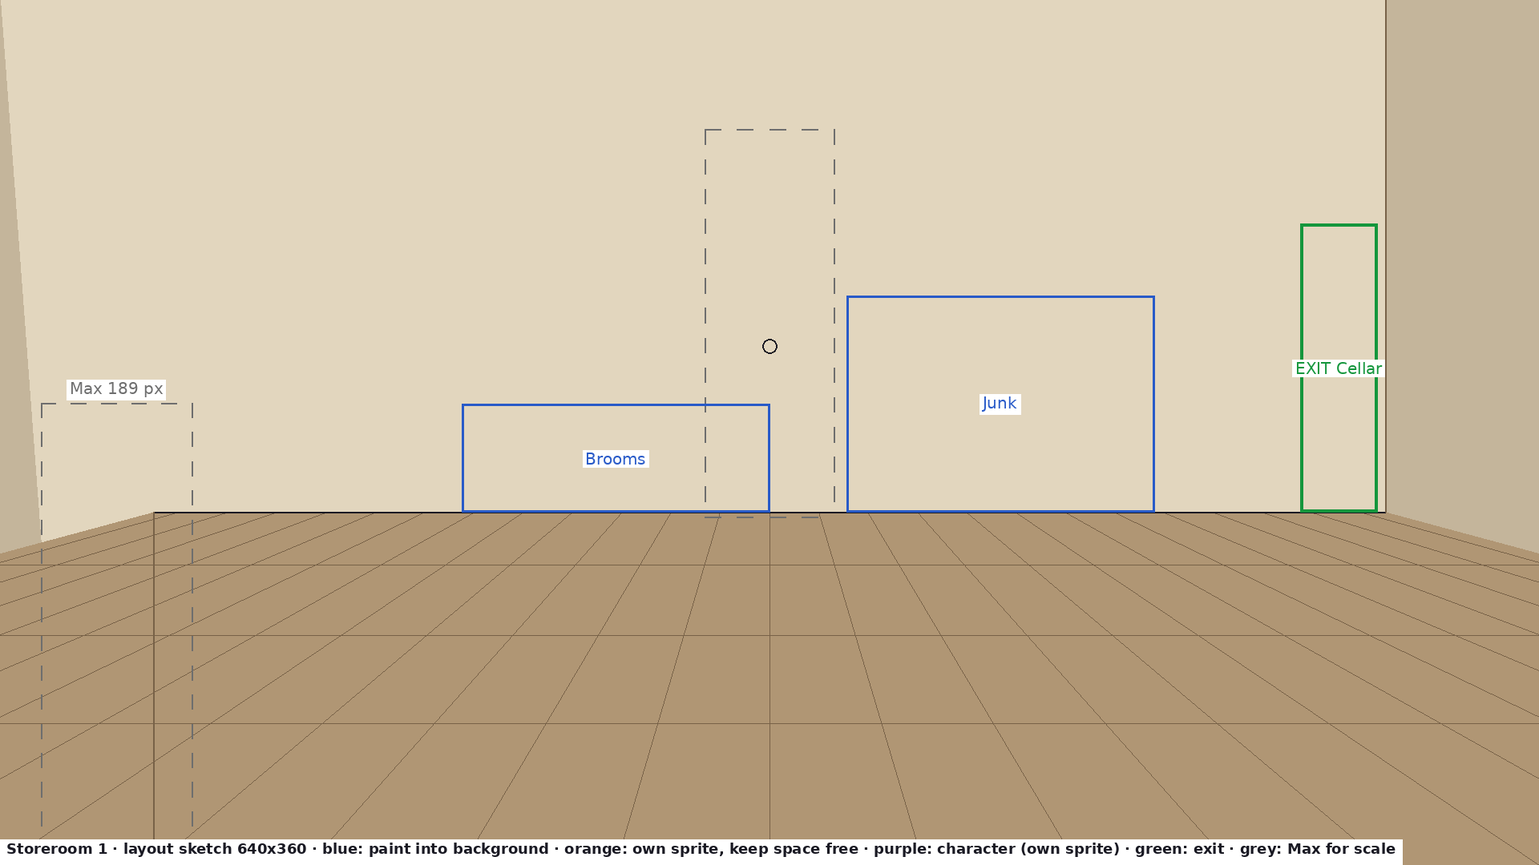
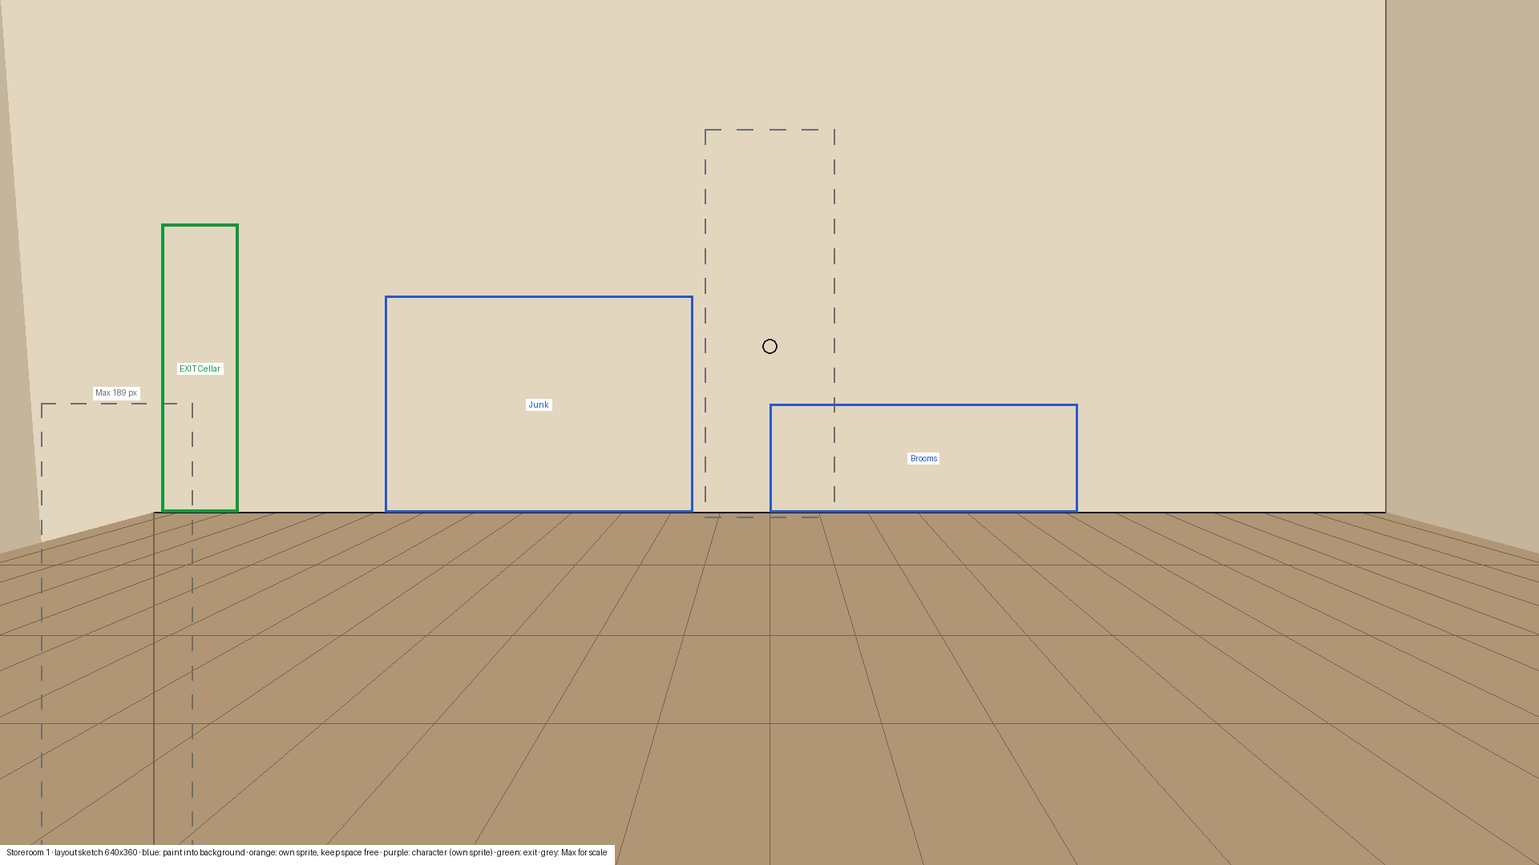
Grafik Welt 1: Prompts geprüft und ergänzt, Liste „noch offen“
Deko-Sammelbild ohne die schon gemalten Teile (Laute, Drachen-Steckbrief, Grammophon), dafür
Hammer, glühendes Hufeisen und der rückwärts fliegende Schüler. Bohnenranke als eigenes Sprite,
Animationen Rühren (Alwin) und Hämmern (Schmied). Abstellkammer 1: Tür links, passend zur
Kammertür rechts im Keller.

diff --git a/docs/grafik/welt-1.md b/docs/grafik/welt-1.md
@@ -47,6 +47,18 @@ dim torch-lit mine palette of earthy browns and mossy greens with small warm gol
 
 ## Prompts
 
+**Stand 13. November 2026, was in Welt 1 noch fehlt** (alles andere ist eingebaut; fertige Prompts in `fertige-prompts/welt-1.md`):
+
+| Art | Offen | Hinweis |
+| --- | --- | --- |
+| Szenen | Luftschloss (breit, zwei Hälften), Turmkeller, Abstellkammer 1, Smaugis Abstellkammern (zwei Fassungen), Thronsaal | Erst nach dem Slice; Skizze mitgeben |
+| Figuren | Streik-Goblin 2 und 3 (Slice); Zeldina, Maklerin, Lord Moderwort, Smaugi, Max als Pilz, Zauberbesen, Übungsbesen (nach dem Slice) | Max' Figurenblatt anhängen, bei Max als Pilz auch das Max-Blatt als Vorlage |
+| Sammelbilder | Bohnenranke (1×1), Niesrosen (1×2), Smaugis Kram (3×3), Deko Welt 1 (3×3) | Bohnenranke und Niesrosen gehören zum Slice-Ende (R7, R8) und zu Rätsel 7 |
+| Nahansichten | Alwins Hinweiszettel, Luftschloss-Kritzelei, Moderworts Zeugnis | Märchen-Satzung ist fertig |
+| Animationen | Alle aus der Tabelle unten | Kommen im Aseprite-Durchgang (`offene-punkte.md`, Animationen) |
+
+Fertig und nicht mehr zu erzeugen: die neun Slice-Räume, 18 Figuren mit Streik-Goblin 1, alle vier Gegenstands-Sammelbilder (Dorf und Taverne, Zaubertrank, Flaschen, Wald und Turm) und die Nahansicht Märchen-Satzung.
+
 Vorne den Baustein aus `00-stil-und-werkzeuge.md`, dann das Motiv, hinten den Farb-Baustein dieser Welt (für den Dunklen Turm den düsteren, für das Goblin-Bergwerk den eigenen).
 
 ### Szenen
@@ -73,7 +85,7 @@ Zu den Motiven: Jedes Motiv nennt links, Mitte und rechts in Bildrichtung, die A
 | Luftschloss | – | Breitbild 1280×360, linke und rechte Hälfte einzeln erzeugen (Entscheidung 13. November 2026). Kritzelei neben dem Torbogen (Nahansicht), Rankenende links als Ausgang, Balkon, Spiegel. Eigene Sprites: Maklerin, Zeldina mit Karton, Toadi (kommt nach Rätsel 9 die Ranke hoch) | Dainty pastel castle courtyard on top of fluffy clouds, morning, wide 1280x360 scene built from two 640x360 halves that join seamlessly. LEFT HALF, left to right: the top of a giant green beanstalk curling over the cloud edge at the left edge; an open stretch of pale flagstones with low pastel hedges and a small dry fountain. RIGHT HALF, left to right: a high arched doorway, on the pale wall right next to it a small childish chalk scribble with a tiny heart, no letters; a tiny balcony with a railing and an ornate gold-framed wall mirror at the right edge. Background: slim turrets with pointed pink roofs, open sky. Floor with gentle depth, made of pale flagstones and cloud in the lower third kept clear. Soft pink and blue light from upper left |
 | Goblin-Bergwerk | Rune-Tür zu und offen | Breitbild 1280×360, linke und rechte Hälfte einzeln erzeugen (Entscheidung 13. November 2026). Loren, Streikschilder, Streikposten-Linie, Rune-Tür rechts (Kellereingang des Dunklen Turms, offen nach Rätsel 10), Ausgang zum Zauberwald links. Eigene Sprites: Grimmzahn, zwei Goblins; Deko-Sprites Kaffeemaschine auf der Kiste und drei stumme Streik-Goblins entlang der Streikposten-Linie (Sebastian, 13. November 2026: zwei Goblins wirken nicht wie ein Streik) | Mine tunnel with wooden support beams, wide 1280x360 scene built from two 640x360 halves that join seamlessly. LEFT HALF, left to right: the bright tunnel mouth to the forest at the left edge, rails leading in, two mine carts on the rails, piles of rubble and a pickaxe rack on the wall. RIGHT HALF, left to right: protest signs with blank boards leaning on the wall, a picket line painted as a dashed stripe across the floor, an empty wooden crate by the wall; then the tunnel narrows and ends in a smooth stone wall with a closed secret door outlined by one faint glowing rune at the right edge. Rocky floor with gentle depth in the lower third kept clear. Very dim flickering torches on the beams, light from upper left. Second version: identical, but the rune door stands open on stone steps lit in violet |
 | Turmkeller (Turmhalle) | Vor und nach Rätsel 11 Teil 2 (Kammertür einen Spalt offen und Besen auf den Routen; danach Tür zu, keine Besen) | Keller des Turms (Ebene 0): offene Rune-Tür zum Bergwerk links, drei Besenrouten als Fliesenmuster (gerade rot, Zickzack gelb, Schleife blau) mit genau drei Kreuzungen als Boden-Hotspots, einen Spalt offene Tür zur Abstellkammer 1 rechts (nach Rätsel 11 Teil 2 Ausgang in die Kammer), Wendeltreppe nach oben. Eigene Sprites: drei Zauberbesen; bei Goblin-Weg B Grimmzahn, der Max in den Turm folgt | Cellar hall at the bottom of a dark wizard tower, 640x360. Left: a heavy stone door with a faint rune standing open at the left edge, a few steps leading down into a mine tunnel. Center: a wide stone floor with three tile paths in clearly different colors, a straight red line, a yellow zigzag and a blue loop, crossing each other at exactly three points. Right: a wooden storeroom door, slightly ajar. Background: a narrow spiral staircase winding up into darkness. Floor with gentle depth in the lower third kept free of objects, only the tile paths. Torch light from upper left, violet shadows |
-| Abstellkammer 1 | – | Ebene 1, erste von Smaugis sechs Kammern, ein paar Stufen über dem Keller; hier sperrt Max die Besen ein und betritt die Kammer danach als Ansehen-Raum ohne Rätsel: Gerümpel (Smaugis Einsteigerkram, zum Teil schon zu Stapeln gefegt), Schild „Eigentum Smaugi, Kammer 1 von 6“ (Text von Hand in Aseprite), freie Bodenfläche für die fegenden Besen, Tür rechts zurück in den Keller. Eigene Sprites: Zauberbesen | Cramped storeroom on the first floor of a wizard tower, 640x360. Left: a single torch on the wall above shelves of dusty junk. Center: buckets, folded violet banners and a heap of rags along the back wall, half of the junk already swept into two neat square stacks, a small blank wooden sign nailed to the wall above the junk, cobwebs in the corners, an open stretch of stone floor in front. Right: the wooden door at the right edge. Floor with gentle depth in the lower third kept clear. Torch light from upper left, violet shadows |
+| Abstellkammer 1 | – | Ebene 1, erste von Smaugis sechs Kammern, ein paar Stufen über dem Keller; hier sperrt Max die Besen ein und betritt die Kammer danach als Ansehen-Raum ohne Rätsel: Gerümpel (Smaugis Einsteigerkram, zum Teil schon zu Stapeln gefegt), Schild „Eigentum Smaugi, Kammer 1 von 6“ (Text von Hand in Aseprite), freie Bodenfläche für die fegenden Besen, Tür links zurück in den Keller (im Keller liegt die Kammertür rechts). Eigene Sprites: Zauberbesen | Cramped storeroom on the first floor of a wizard tower, 640x360. Left: the wooden door at the left edge. Center left: buckets, folded violet banners and a heap of rags along the back wall, half of the junk already swept into two neat square stacks, a small blank wooden sign nailed to the wall above the junk, cobwebs in the corners. Center right: an open stretch of bare stone floor. Right: a single torch on the wall above shelves of dusty junk. Floor with gentle depth in the lower third kept clear. Torch light from upper left, violet shadows |
 | Smaugis Abstellkammern | Voll (vor Rätsel 12, die Besen fegen gerade) und aufgeräumt (nach Rätsel 12); Geheimtür zu und offen (Rätsel 11 Teil 1) als Sprite-Wechsel | Oberste Abstellkammer (Ebene 6), die Kammern 2 bis 5 sind kein eigener Raum: Wendeltreppe von unten links, drei Kram-Haufen (Schwerter-Bündel, Fackel-Bündel, Kronleuchter), Drachenei-Nest, Schwert im Stein, kichernde Geheimtür am Fuß der Treppe nach oben zum Thronsaal (Ebene 7). Ausschneiden: die drei Kram-Stücke (auch im Sammelbild „Smaugis Kram“). Eigene Sprites: Smaugi, Drachenei, Humbert, Grimmzahn, Zeldina, Zauberbesen (vor Rätsel 12); Deko-Sprite Okarina | Top storeroom floor of a wizard tower, 640x360, crammed to the ceiling with hoarded junk: rusty helmets, dented teapots, a cracked mirror, heaps of gold coins. Left: the top of a stone staircase coming up from below at the left edge, then three separate small junk piles: a bundle of rusty swords tied with rope, a bundle of burnt-out torches, and a dusty golden chandelier hanging crooked from the ceiling. Center: a big gold coin pile with a sword stuck in a rock on top, beside it an empty nest of old blankets. Right: a narrow stone staircase leading up, at its foot a heavy wooden door with a carved grinning face. Floor with gentle depth in the lower third kept clear. Warm torch light from upper left, dust in the air. Second version: identical layout, all junk swept into neat square stacks along the walls, bare floor visible |
 | Wasserschloss (Gag-Szene) | – | Umzugskartons, Teppich, Schild am Tor („Zu vermieten“ von Hand), Schilf, Ruderboot, Weg zur Brücke links. Eigene Sprites: Schwan, Toadi | Small pastel pink fairy tale castle on a lake, morning, 640x360. Left: the path from the bridge at the left edge, reeds and a small rowing boat at the shore. Center: a wooden footbridge across the water to an open castle gate with a blank wooden sign hanging on it; through the gate a courtyard with stacked moving boxes and a rolled-up carpet. Right: open calm water with free space for a swan, the castle's round tower behind. Shore and footbridge form the floor with gentle depth in the lower third, kept clear. Calm blue water, light from upper left |
 | Thronsaal | – | Ebene 7 ganz oben im Turm, Zugang über die Geheimtür links: Thron mit besticktem Kissen („Für meinen Mo“ von Hand), Taschentuchstapel, Blumenvasen, Buntglasfenster. Eigene Sprites: Moderwort, Zeldina, Toadi (stürmt nach Rätsel 13 herein); Deko-Sprite Lerntagebuch auf dem Tisch | Oversized dark throne room at the very top of a wizard tower, night, 640x360, looking slightly ridiculous. Left: a narrow secret door standing open at the left edge, tall vases overflowing with bright flowers. Center: a giant spiky black throne on two steps with a tiny embroidered pink cushion. Right: a small table with stacks of tissue boxes, a tall stained glass window with moonlight and clouds far below. Long violet carpet along the floor in the lower third, kept clear. Torch light from upper left |
@@ -134,6 +146,7 @@ Alle mit dem Baustein GEGENSTÄNDE. Kochlöffel, Socke und Notizbuch stehen bei 
 | Zaubertrank (2×4) | 2x4 grid, same scale, left to right, last cell empty: an empty clay jug with a blank name tag on a string; the same jug full of white goat milk; a small glowing blue mushroom; a crumpled paper note with short blank rhyme lines; a round bottle of glowing yellow potion with a cork; a magic bean with a tiny sparkle; the red-and-white striped sock bulging with pink pollen |
 | Flaschen (1×6) | 1x6 row, left to right, standing on one baseline: six small potion bottles of identical opaque dark brown glass with cork stoppers, bottles two and five twice as tall as the others, no labels, nothing visible inside, otherwise no differences in color or shape |
 | Wald und Turm (2×4) | 2x4 grid, same scale, left to right, last cell empty: a red plastic squeeze bottle with a blank label; a rolled parchment contract with an empty signature line; the same contract unrolled with a red ketchup smear on the signature line; an old school report card with blank grade lines and a small heart doodle in the corner; a large golden dragon egg with fine overlapping scales; a rusty sword with a small blank name tag on a string; a fizzing green potion bottle with a blank label |
+| Bohnenranke (1×1) | Single world sprite, about 128x360, not an inventory icon: a giant green beanstalk growing out of a small patch of dark soil, twisting upward with broad heart-shaped leaves and curly tendrils, thick at the bottom, leaving the frame at the top edge, plain light grey background. Same green as the beanstalk top in the Luftschloss scene |
 | Niesrosen (1×2) | 1x2, world sprite about 100 pixels wide, not an inventory icon, same bush in both cells: left a round green bush with large closed pink rose buds; right the same bush with fully opened pink roses releasing a cloud of pink pollen |
 | Smaugis Kram (3×3, Rätsel 12) | 3x3 grid of dragon hoard junk at world-sprite scale, about 32 to 64 pixels each, left to right: a bundle of rusty swords without name tags tied with rope; a bundle of old burnt-out torches tied with string; a dusty golden chandelier; a pile of gold coins; a rusty helmet; a cracked hand mirror; a single striped sock; a dented teapot; a small treasure chest. Die ersten drei Stücke zusätzlich als 48×48-Icon. Die ersten drei Stücke sind die Rätselgegenstände, der Rest Deko für die Szene. |
 | Nahansichten Welt 1 (je 640×360) | HINTERGRUND, je ein Bild; die Nahansicht füllt das ganze Bild, ohne Bodenband: (1) close-up of a large weathered wooden sign with a carved border and rows of blank carved paragraphs, filling the frame (Märchen-Satzung); (2) close-up of a crumpled paper note with short blank rhyme lines, held by a wrinkled hand (Alwins Hinweiszettel); (3) close-up of a pale pastel castle wall with a small childish chalk scribble and a tiny heart, room for one handwritten line (Luftschloss-Kritzelei „…-Bärchen war hier“, Rätsel 11); (4) close-up of an old school report card with blank grade rows and a small handwritten note with a heart in the corner (Moderworts Zeugnis mit Muttis Notiz, Rätsel 11). Alle Schriften von Hand. Vier Stück, Liste in `welten/welt-1.yaml`; Opas Zettel ist eine Nahansicht des Prologs (Grafik dort), der Steckbrief nur ein Inventar-Sprite mit Ansehen-Text |
@@ -158,9 +171,9 @@ Alle mit dem Baustein GEGENSTÄNDE. Kochlöffel, Socke und Notizbuch stehen bei 
 
 | Sammelbild | Motiv |
 | --- | --- |
-| Deko Welt 1 (3×3) | 3x3 grid of look-only props at world-sprite scale, about 32 to 64 pixels each, left to right: two coconut halves on a straw bale; a wooden lute with a small tin cup holding one coin; a wanted poster with a red dragon drawing and a blank reward line; a holey red-and-white striped sock on a small stool; a brass gramophone with a large horn; a single glass slipper; a small grumpy coffee machine with a blank crossed-out sticker; a thin black diary with a skull on the cover; a small clay ocarina |
+| Deko Welt 1 (3×3) | 3x3 grid of look-only props at world-sprite scale, about 32 to 64 pixels each, left to right: two coconut halves; a holey red-and-white striped sock lying flat; a single glass slipper; a small grumpy coffee machine with a blank crossed-out sticker; a thin black diary with a skull on the cover; a small clay ocarina; a heavy smithing hammer with a wooden handle, lying on its side; a red-hot glowing horseshoe held in black iron tongs; a tiny student in a dark school robe sitting backwards on a flying broom, waving |
 
-Statue, Kürbisturm, Spiegel und Schwert im Stein sind Teil der Hintergründe.
+Statue, Kürbisturm, Spiegel und Schwert im Stein sind Teil der Hintergründe; Laute, Drachen-Steckbrief und Grammophon sind schon in den fertigen Hintergründen von Taverne und Troll-Brücke gemalt und deshalb aus dem Sammelbild gestrichen (13. November 2026). Neu im Sammelbild: Hammer und glühendes Hufeisen für den hämmernden Schmied (der Hammer in seiner Hand wird dafür übermalt) und der rückwärts fliegende Schüler, der im Klassenzimmer ab und zu hinter dem Fenster vorbeifliegt (lebendiger Hintergrund, Witz W1\_HOGG\_MAX\_0165); er wird auf etwa 16 Pixel verkleinert.
 
 ### Animationen
 
@@ -190,5 +203,7 @@ Statue, Kürbisturm, Spiegel und Schwert im Stein sind Teil der Hintergründe.
 | Pilz-Verwandlung | Effekt | 6 | 6 | einmalig | EFFEKT, 64x64: a green puff of smoke at head height, out of which a round plain brown mushroom cap pops up. 6 frames, plays once, over Max in the classroom |
 | Smaugi | Kram hergeben | 12 | 6 | Schleife | From the Smaugi reference sprite: he picks up a piece of junk with one claw, holds it up and looks at it thoughtfully, then hands it forward to the right. 6 frames, loops, facing right, body and tail stay still |
 | Smaugi | Gerührt schniefen | 12 | 4 | Schleife | From the Smaugi reference sprite: he sniffles, wipes a tear with the corner of his headscarf, a small puff of smoke rises from his nose. 4 frames, loops, facing right |
+| Alwin Grauwald | Rühren | Kulisse | 6 | Schleife | From the Alwin reference sprite: he stirs the cauldron with his soup ladle in slow circles, leaning slightly forward, beard swaying, puzzled smile. 6 frames, loops, facing left toward the cauldron (mirrored), feet stay planted |
+| Schmied | Hämmern | Kulisse | 6 | Schleife | From the Schmied reference sprite: he raises the hammer high and brings it down on a glowing horseshoe on the anvil, a small burst of orange sparks, weary sigh between blows. 6 frames, loops, facing left toward the anvil (mirrored), feet stay planted |
 | Übungsbesen | Pixel jagen | 6 (Hinweis für 11) | 8 | einmalig | From the Übungsbesen reference sprite: the small broom twitches awake, shoots across the floor chasing a few grey cat hairs, crashes into a cupboard door and drops. 8 frames, plays once, facing right |
 | Zauberbesen | Max wegfegen | 11 | 8 | einmalig | From the Zauberbesen and Max sprites: the broom rushes at Max and sweeps him off his feet in one big swing, Max tumbles away to the left like a heap of dust. 8 frames, plays once, broom facing left |

diff --git a/docs/grafik/fertige-prompts/welt-1.md b/docs/grafik/fertige-prompts/welt-1.md
@@ -93,7 +93,7 @@ Concept art for a 2D point-and-click adventure game in the style of classic 1990
 **Layout-Skizze:** [Abstellkammer 1](../skizzen/welt-1/abstellkammer_1.png)
 
 ```text
-Concept art for a 2D point-and-click adventure game in the style of classic 1990s adventure games, front view of the room with gentle one-point perspective, camera at the eye level of a standing person looking straight at the back wall, back wall parallel to the picture plane, vanishing point in the center at about 40 percent of the image height, side walls at most as narrow angled strips at the image edges, open walkable floor with gentle depth across the lower third to half of the image kept free of objects except at the left and right edges, wide shot from further back so the room feels spacious: a standing adult at the front edge would be about 52 percent of the image height, so doors and tall cupboards reach only about 50 percent of the image height, chairs about 25 percent and tables about 22 percent, no top-down, bird's-eye or strong three-quarter view, no fisheye, every object drawn exactly as described and nothing added, no faces or robot features on objects, small loose objects that can be picked up left out, book spines, calendars, posters and labels without any letters or numbers, light from the upper left with soft shadows to the lower right, humorous and whimsical, warm hand-painted look, 16:9, no text, no letters, no logos. Cramped storeroom on the first floor of a wizard tower, 640x360. Left: a single torch on the wall above shelves of dusty junk. Center: buckets, folded violet banners and a heap of rags along the back wall, half of the junk already swept into two neat square stacks, a small blank wooden sign nailed to the wall above the junk, cobwebs in the corners, an open stretch of stone floor in front. Right: the wooden door at the right edge. Floor with gentle depth in the lower third kept clear. Torch light from upper left, violet shadows. dusky fairy tale palette of violet, slate grey and pale green, flickering torch light, comically gloomy. Use the attached sketch only for the position and size of objects and exits, not for style, colors or text. Leave the orange marked spots empty.
+Concept art for a 2D point-and-click adventure game in the style of classic 1990s adventure games, front view of the room with gentle one-point perspective, camera at the eye level of a standing person looking straight at the back wall, back wall parallel to the picture plane, vanishing point in the center at about 40 percent of the image height, side walls at most as narrow angled strips at the image edges, open walkable floor with gentle depth across the lower third to half of the image kept free of objects except at the left and right edges, wide shot from further back so the room feels spacious: a standing adult at the front edge would be about 52 percent of the image height, so doors and tall cupboards reach only about 50 percent of the image height, chairs about 25 percent and tables about 22 percent, no top-down, bird's-eye or strong three-quarter view, no fisheye, every object drawn exactly as described and nothing added, no faces or robot features on objects, small loose objects that can be picked up left out, book spines, calendars, posters and labels without any letters or numbers, light from the upper left with soft shadows to the lower right, humorous and whimsical, warm hand-painted look, 16:9, no text, no letters, no logos. Cramped storeroom on the first floor of a wizard tower, 640x360. Left: the wooden door at the left edge. Center left: buckets, folded violet banners and a heap of rags along the back wall, half of the junk already swept into two neat square stacks, a small blank wooden sign nailed to the wall above the junk, cobwebs in the corners. Center right: an open stretch of bare stone floor. Right: a single torch on the wall above shelves of dusty junk. Floor with gentle depth in the lower third kept clear. Torch light from upper left, violet shadows. dusky fairy tale palette of violet, slate grey and pale green, flickering torch light, comically gloomy. Use the attached sketch only for the position and size of objects and exits, not for style, colors or text. Leave the orange marked spots empty.
 ```
 
 ## Smaugis Abstellkammern
@@ -318,6 +318,12 @@ Pixel art item sheet, grid exactly as given in the motif, items in reading order
 Pixel art item sheet, grid exactly as given in the motif, items in reading order left to right and top to bottom, each item centered in its own cell at the same scale, about 48x48 pixels each, slight front-side view, no overlap between cells, dark colored outline (not pure black), light from upper left, plain transparent background, no text, letters or numbers on any item. 2x4 grid, same scale, left to right, last cell empty: a red plastic squeeze bottle with a blank label; a rolled parchment contract with an empty signature line; the same contract unrolled with a red ketchup smear on the signature line; an old school report card with blank grade lines and a small heart doodle in the corner; a large golden dragon egg with fine overlapping scales; a rusty sword with a small blank name tag on a string; a fizzing green potion bottle with a blank label.
 ```
 
+## Bohnenranke (1×1)
+
+```text
+Pixel art item sheet, grid exactly as given in the motif, items in reading order left to right and top to bottom, each item centered in its own cell at the same scale, about 48x48 pixels each, slight front-side view, no overlap between cells, dark colored outline (not pure black), light from upper left, plain transparent background, no text, letters or numbers on any item. Single world sprite, about 128x360, not an inventory icon: a giant green beanstalk growing out of a small patch of dark soil, twisting upward with broad heart-shaped leaves and curly tendrils, thick at the bottom, leaving the frame at the top edge, plain light grey background. Same green as the beanstalk top in the Luftschloss scene.
+```
+
 ## Niesrosen (1×2)
 
 ```text
@@ -333,5 +339,5 @@ Pixel art item sheet, grid exactly as given in the motif, items in reading order
 ## Deko Welt 1 (3×3)
 
 ```text
-Pixel art item sheet, grid exactly as given in the motif, items in reading order left to right and top to bottom, each item centered in its own cell at the same scale, about 48x48 pixels each, slight front-side view, no overlap between cells, dark colored outline (not pure black), light from upper left, plain transparent background, no text, letters or numbers on any item. 3x3 grid of look-only props at world-sprite scale, about 32 to 64 pixels each, left to right: two coconut halves on a straw bale; a wooden lute with a small tin cup holding one coin; a wanted poster with a red dragon drawing and a blank reward line; a holey red-and-white striped sock on a small stool; a brass gramophone with a large horn; a single glass slipper; a small grumpy coffee machine with a blank crossed-out sticker; a thin black diary with a skull on the cover; a small clay ocarina.
+Pixel art item sheet, grid exactly as given in the motif, items in reading order left to right and top to bottom, each item centered in its own cell at the same scale, about 48x48 pixels each, slight front-side view, no overlap between cells, dark colored outline (not pure black), light from upper left, plain transparent background, no text, letters or numbers on any item. 3x3 grid of look-only props at world-sprite scale, about 32 to 64 pixels each, left to right: two coconut halves; a holey red-and-white striped sock lying flat; a single glass slipper; a small grumpy coffee machine with a blank crossed-out sticker; a thin black diary with a skull on the cover; a small clay ocarina; a heavy smithing hammer with a wooden handle, lying on its side; a red-hot glowing horseshoe held in black iron tongs; a tiny student in a dark school robe sitting backwards on a flying broom, waving.
 ```
